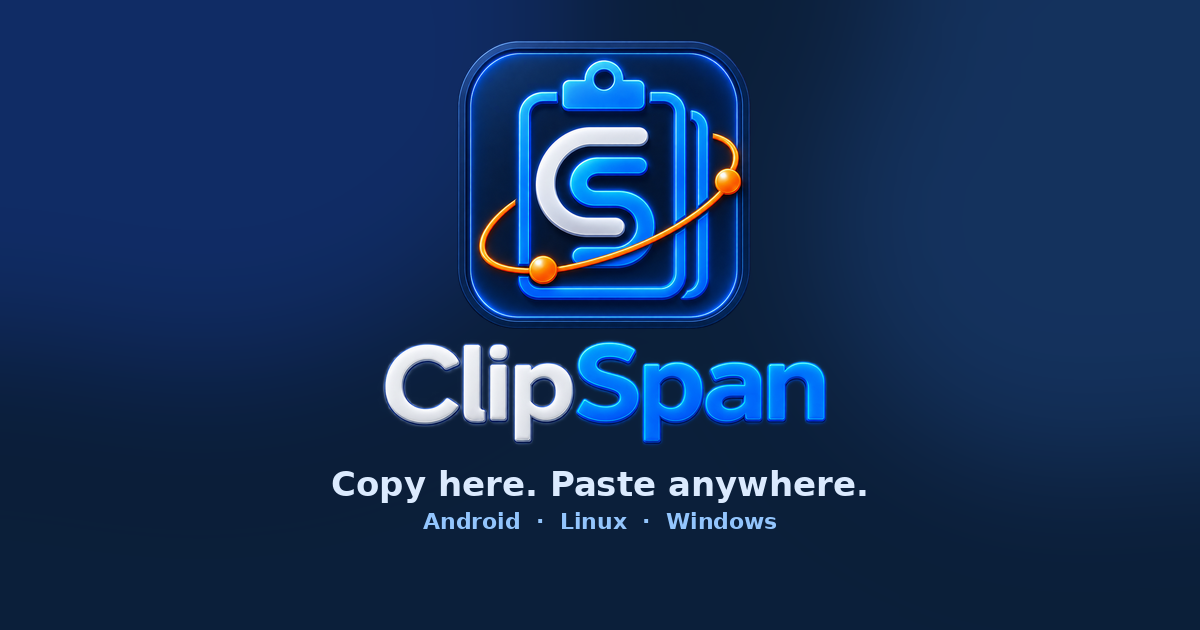
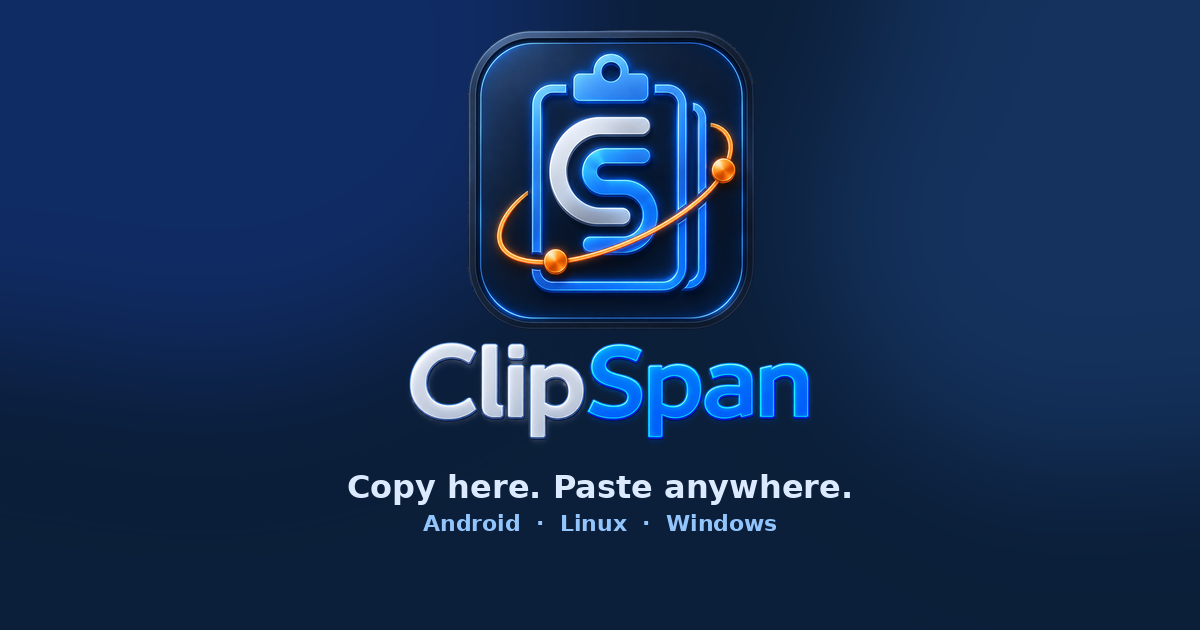
Update hero section layout and assets for improved branding
- Updated Open Graph and Twitter image URLs to the latest version.
- Enhanced hero section layout with flexbox for better responsiveness.
- Adjusted hero logo dimensions for improved visual consistency.
- Updated access wordmark image dimensions for better clarity.

Changed region(s): [[0.3083, 0.0302, 0.7092, 0.7238], [0.2775, 0.754, 0.7092, 0.8444]]

diff --git a/index.html b/index.html
@@ -22,7 +22,7 @@
     property="og:description"
     content="Clipboard history and sync for Android, Linux, and Windows. Local-first. Private testing is next."
   />
-  <meta property="og:image" content="https://clipspan.com/assets/og-image.png?v=2" />
+  <meta property="og:image" content="https://clipspan.com/assets/og-image.png?v=3" />
   <meta property="og:site_name" content="ClipSpan" />
   <meta name="twitter:card" content="summary_large_image" />
   <meta name="twitter:title" content="ClipSpan - Copy here. Paste anywhere" />
@@ -30,7 +30,7 @@
     name="twitter:description"
     content="Clipboard history and sync for Android, Linux, and Windows. Local-first. Private testing is next."
   />
-  <meta name="twitter:image" content="https://clipspan.com/assets/og-image.png?v=2" />
+  <meta name="twitter:image" content="https://clipspan.com/assets/og-image.png?v=3" />
 
   <style>
     :root {
@@ -134,23 +134,21 @@
       color: var(--word-span);
     }
 
-    .hero-title {
+    .hero-intro {
       display: flex;
+      flex-wrap: wrap;
       align-items: center;
-      gap: 0.85rem;
-      margin-bottom: 0.75rem;
-    }
-
-    .hero-title h1 {
-      margin-bottom: 0;
+      gap: 1.25rem 2rem;
+      animation: rise 700ms ease both;
     }
 
     .hero-logo {
       display: block;
-      width: clamp(72px, 12vw, 104px);
+      width: clamp(148px, 26vw, 228px);
       height: auto;
-      flex-shrink: 0;
-      filter: drop-shadow(0 10px 28px rgba(59, 130, 246, 0.35));
+      flex: 0 0 auto;
+      margin-left: auto;
+      filter: drop-shadow(0 12px 32px rgba(59, 130, 246, 0.4));
     }
 
     .header-nav {
@@ -218,8 +216,8 @@
     }
 
     .hero-copy {
+      flex: 1 1 18rem;
       max-width: 38rem;
-      animation: rise 700ms ease both;
     }
 
     .hero h1 {
@@ -575,7 +573,7 @@
         scroll-behavior: auto;
       }
 
-      .hero-copy,
+      .hero-intro,
       .hero-visual {
         animation: none !important;
       }
@@ -602,28 +600,28 @@
 
   <main>
     <section class="wrap hero" aria-labelledby="brand">
-      <div class="hero-copy">
-        <div class="hero-title">
+      <div class="hero-intro">
+        <div class="hero-copy">
           <h1 id="brand" class="wordmark"><span class="word-clip">Clip</span><span class="word-span">Span</span></h1>
-          <img
-            class="hero-logo"
-            src="assets/logo-hero.png"
-            srcset="assets/logo-hero.png 1x, assets/logo-hero-512.png 2x"
-            width="104"
-            height="104"
-            alt=""
-          />
+          <p class="tagline">Copy here. Paste anywhere.</p>
+          <p class="lede">
+            Clipboard history and synchronization for Android, Linux, and Windows.
+            Private testing is next, with a public tester group to follow.
+          </p>
+          <div class="hero-actions">
+            <a class="btn btn-primary" href="#access">Request early access</a>
+            <a class="btn btn-ghost" href="#how">See what works today</a>
+          </div>
+          <p class="hero-note">Local-first by default. Optional account sync is end-to-end encrypted.</p>
         </div>
-        <p class="tagline">Copy here. Paste anywhere.</p>
-        <p class="lede">
-          Clipboard history and synchronization for Android, Linux, and Windows.
-          Private testing is next, with a public tester group to follow.
-        </p>
-        <div class="hero-actions">
-          <a class="btn btn-primary" href="#access">Request early access</a>
-          <a class="btn btn-ghost" href="#how">See what works today</a>
-        </div>
-        <p class="hero-note">Local-first by default. Optional account sync is end-to-end encrypted.</p>
+        <img
+          class="hero-logo"
+          src="assets/logo-hero.png"
+          srcset="assets/logo-hero.png 1x, assets/logo-hero-512.png 2x"
+          width="228"
+          height="228"
+          alt=""
+        />
       </div>
       <figure class="hero-visual">
         <img
@@ -802,8 +800,8 @@
             <img
               class="access-wordmark"
               src="assets/logo-wordmark.png"
-              width="480"
-              height="429"
+              width="640"
+              height="619"
               alt="ClipSpan"
             />
             <p class="section-label">Early access</p>
